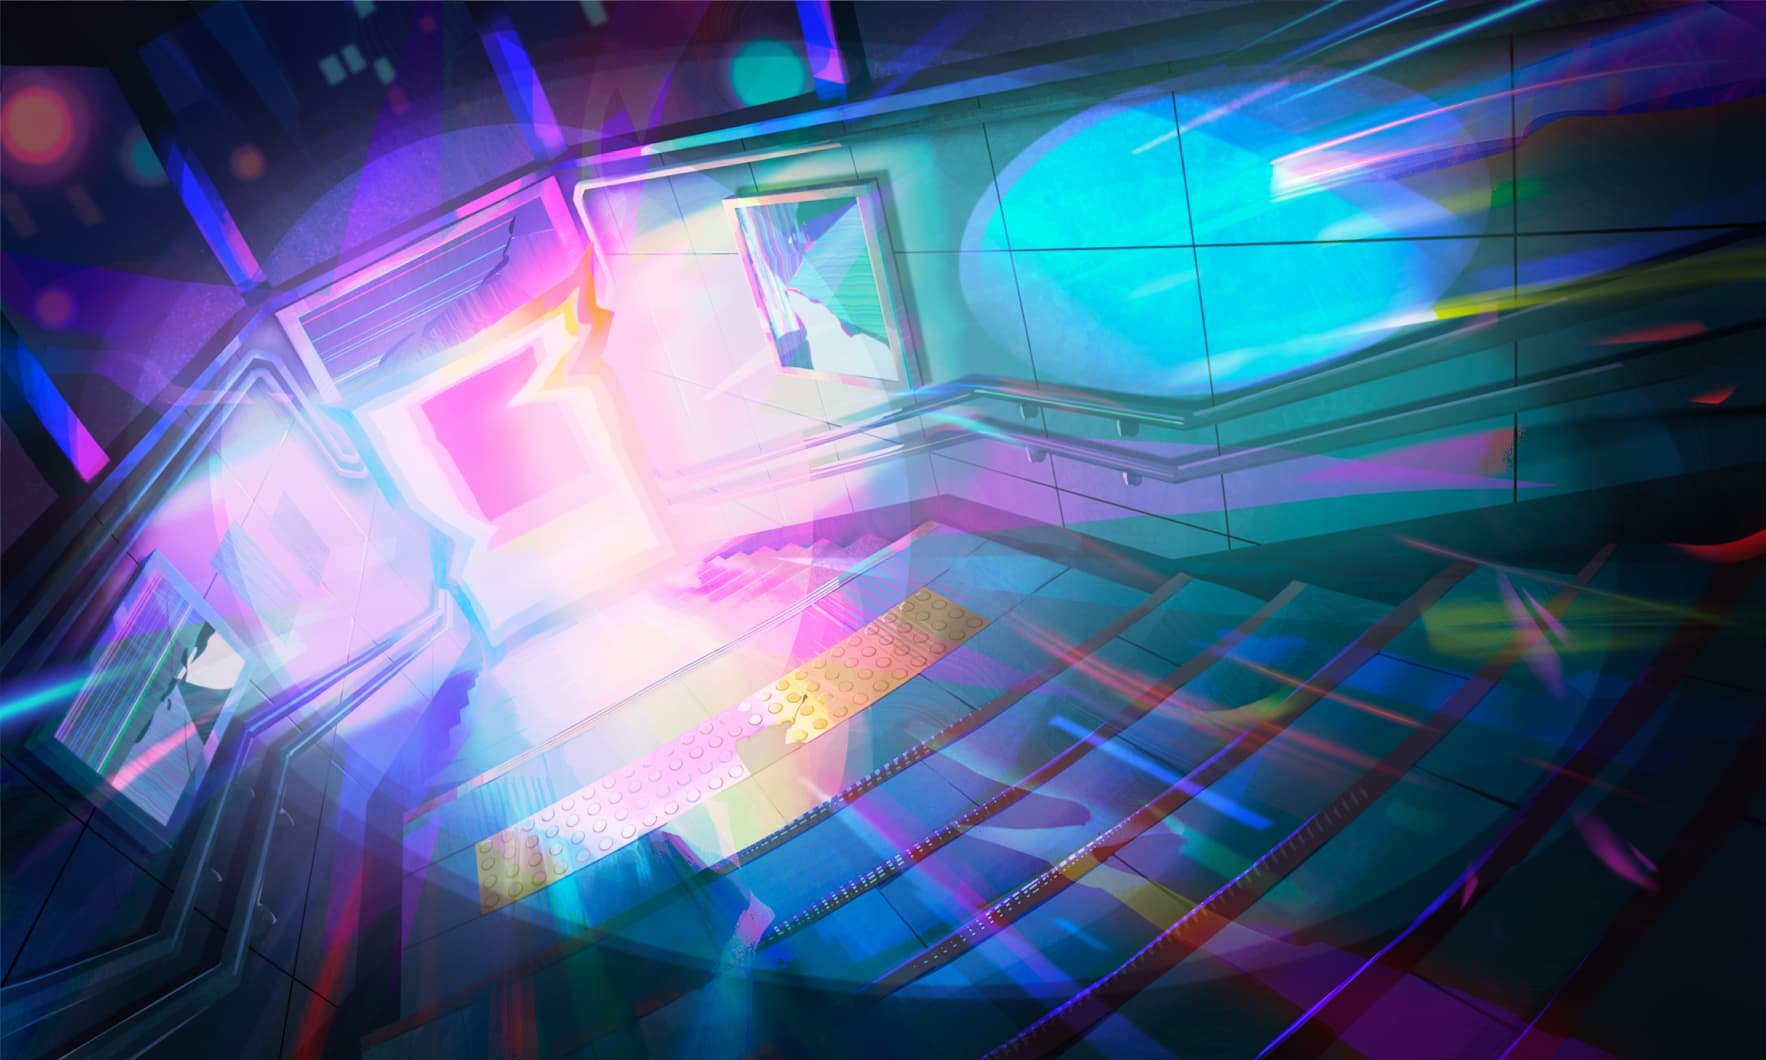
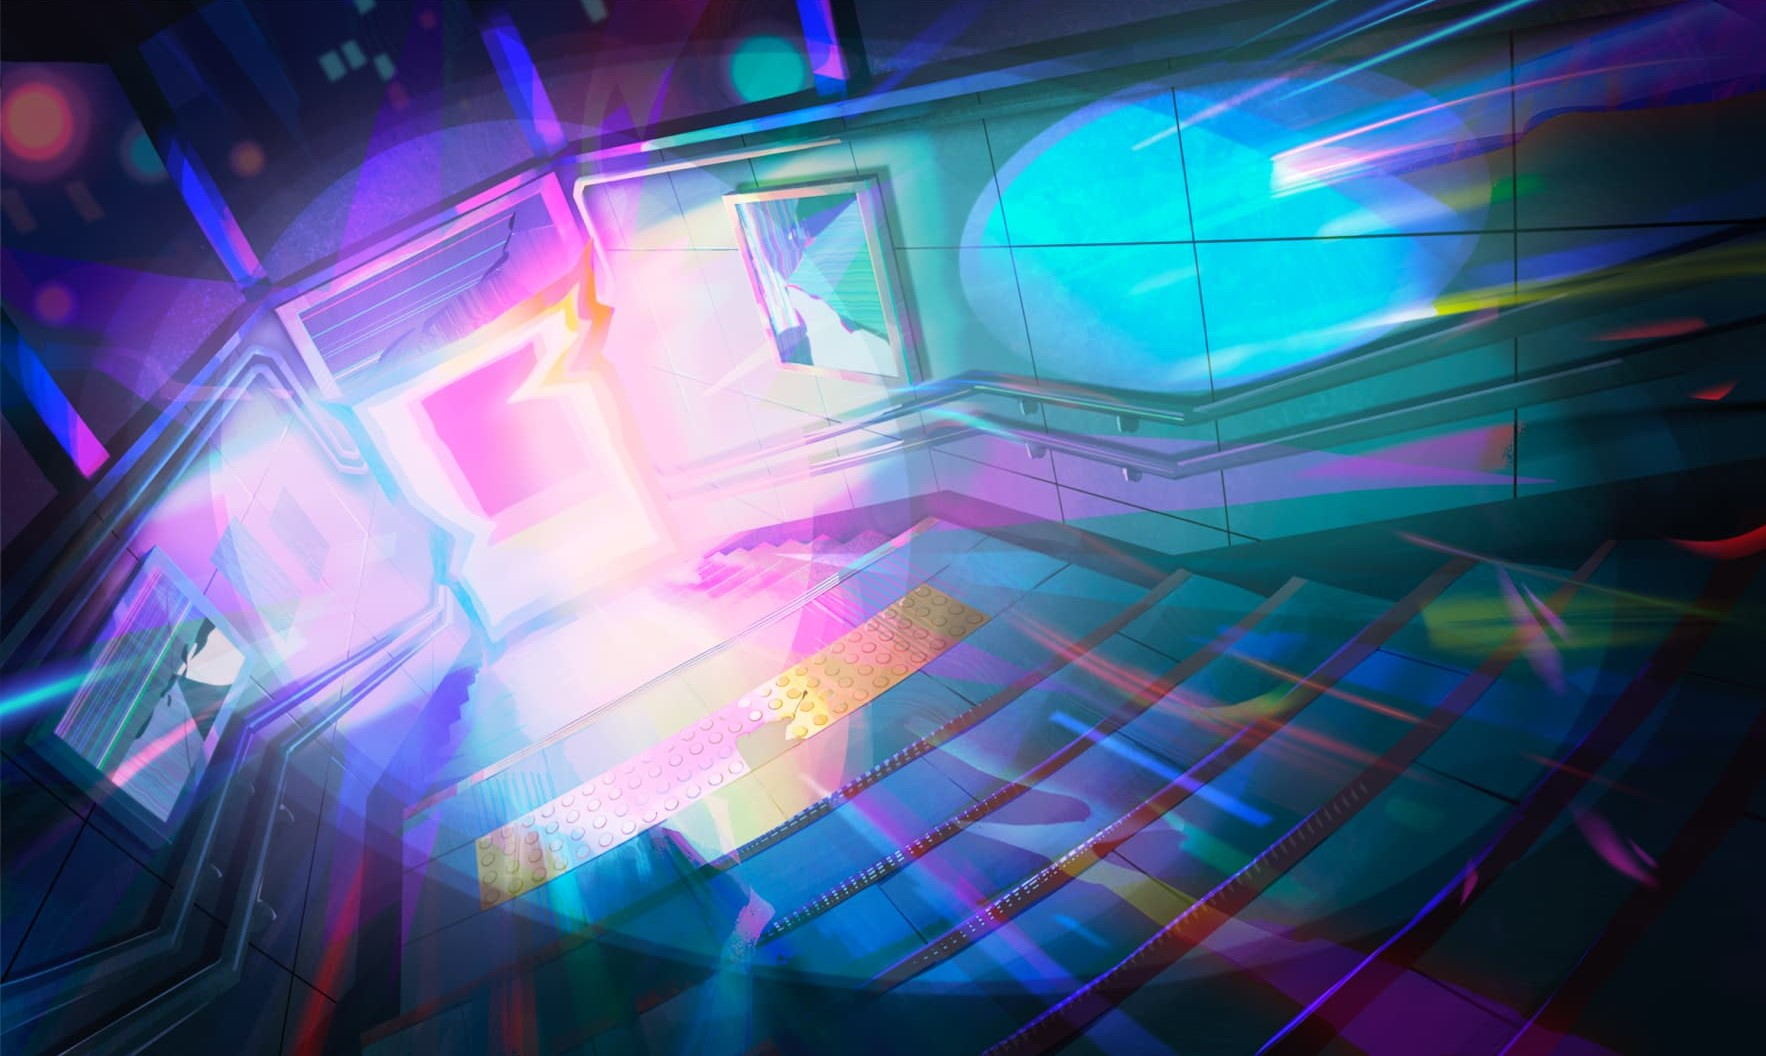
removed parallax and added mouse effect in hero

diff --git a/appTemporal/templates/layouts/index.html b/appTemporal/templates/layouts/index.html
@@ -5,12 +5,14 @@
         <meta charset="UTF-8">
         <link rel="icon" type="image/svg+xml" href="../../static/img/favicon.svg">
         <meta name="viewport" content="width=device-width, initial-scale=1.0">
-        <script src="../../static/js/main.js" defer></script>
+       
         <title>Demo title here</title>
         <link rel="preconnect" href="https://fonts.googleapis.com">
         <link rel="preconnect" href="https://fonts.gstatic.com" crossorigin>
         <link href="https://fonts.googleapis.com/css2?family=Rubik:ital,wght@0,700;1,900&display=swap" rel="stylesheet">
         <link href="../../static/css/style.css" rel="stylesheet">
+        <script src="https://code.jquery.com/jquery-3.6.0.min.js"></script>
+
     </head>
     <body>
         <div class="parallax">
@@ -54,27 +56,9 @@
             <img class="parallax__manny" src="../../static/img/manny.webp" alt="">
             <img class="parallax__rays" src="../../static/img/rays.webp" alt="">
         </div>
-        <main class="main-content">
-            <div class="wrapper">
-                {% comment %} <div class="who-are-we-container">
-                    <p>Who are we</p>
-                </div>
-                <div class="game-explain-container">
-                    <p>Explaning the game</p>
-                </div>
-                <div class="founders-container">
-                    <p>Meet the founders</p>
-                </div>
-                <div class="get-in-touch-container">
-                    <p>Contact</p>
-                </div>
-                <div class="support-us-container">
-                    <p>Support us</p>
-                </div> {% endcomment %}
-            </div>
-            <footer>
-                <p>Footer</p>
-            </footer>
-        </main>
+        
+        <script src="../../static/js/main.js" defer></script>
+
+
     </body>
 </html>

diff --git a/appTemporal/static/css/style.css b/appTemporal/static/css/style.css
@@ -1,32 +1,35 @@
+
+
 .parallax {
-    /* overflow: hidden; */
+    overflow: hidden;
     position: relative;
     z-index: 0;
-    min-height: 75vh;
+    width: 100%;
+    height: 100vh;
     display: grid;
     grid-template-areas: "stack";
 }
 
 .parallax > * {
-   grid-area: stack;
-
-   /* UNCOMMENT THESE TWO LINES TO GET THE EFFECT */
-      /*animation: parallax linear;
+    grid-area: stack;
+    /* animation: parallax linear;
     animation-timeline: scroll(); */
 }
 
 .parallax > img {
+    min-height: 100%;
     width: 100%;
+    object-fit: cover;
 }
 
 .primary-header,
 .hero {
-    --parallax-speed: 8;
+    --parallax-speed: 3;
     z-index: 10;
 }
 
 .parallax__bg {
-    --parallax-speed: -3;
+    --parallax-speed: -1;
 
     z-index: 1;
     min-height: 100%;
@@ -35,27 +38,27 @@
 }
 
 .parallax__dust {
-    --parallax-speed: -5;
+    --parallax-speed: -3;
     z-index: 2;
 }
 
 .parallax__luna {
-    --parallax-speed: 13;
+    --parallax-speed: 8;
     z-index: 3;
 }
 
 .parallax__manny {
-    --parallax-speed: 10;
+    --parallax-speed: 6;
     z-index: 4;
 }
 
 .parallax__jax {
-    --parallax-speed: 8;
+    --parallax-speed: 5;
     z-index: 5;
 }
 
 .parallax__rays {
-    --parallax-speed: 3;
+    --parallax-speed: 1;
     z-index: 3;
 }
 
@@ -71,11 +74,11 @@
     mix-blend-mode: hard-light;
 }
 
-.main-content {
+/* .main-content {
     position: relative;
-    /* z-index: 1; */
+    z-index: 1;
     background: hsl(238, 100%, 6%);
-}
+} */
 
 @keyframes parallax {
     to {
@@ -88,6 +91,7 @@
 
 html {
     color-scheme: dark;
+   height: 100vh;
 }
 
 body {
@@ -96,7 +100,7 @@ body {
     font-size: 1.25rem;
     font-weight: 700; /* for demo only */
     text-transform: uppercase; /* for demo only */
-    min-height: 300vh; /* for demo only */
+    /* min-height: 300vh;  */
 }
 
 img {

diff --git a/appTemporal/static/js/main.js b/appTemporal/static/js/main.js
@@ -1,0 +1,31 @@
+$(document).ready(function() {
+    console.log("hola pedro 1 ç");
+
+    // Define the parallax effect for each image
+    var parallaxEffects = {
+        ".parallax__bg": 0.01,
+        ".parallax__dust": 0.03,
+        ".parallax__luna": 0.02,
+        ".parallax__jax": 0.02,
+        ".parallax__manny": 0.02, 
+    };
+
+    console.log(parallaxEffects);
+
+    //Mousemove event handler
+    $(document).on("mousemove", function(event) {
+        // Calculate mouse movement
+        var mouseX = event.pageX;
+        var mouseY = event.pageY;
+
+        // Update position for each image based on mouse movement
+        $.each(parallaxEffects, function(selector, speed) {
+            var $img = $(selector);
+            var offsetX = ($img.offset().left + $img.width() / 2) - mouseX;
+            var offsetY = ($img.offset().top + $img.height() / 2) - mouseY;
+            var transformX = offsetX * speed;
+            var transformY = offsetY * speed;
+            $img.css("transform", "translate(" + transformX + "px, " + transformY + "px)");
+        });
+    });
+});
